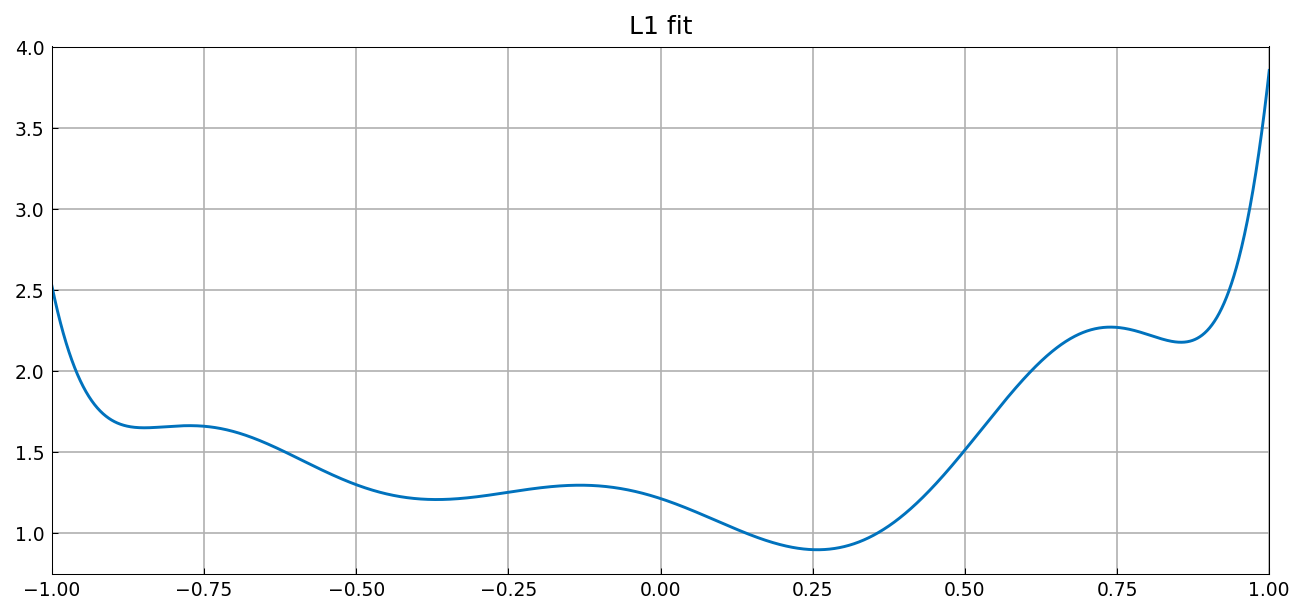
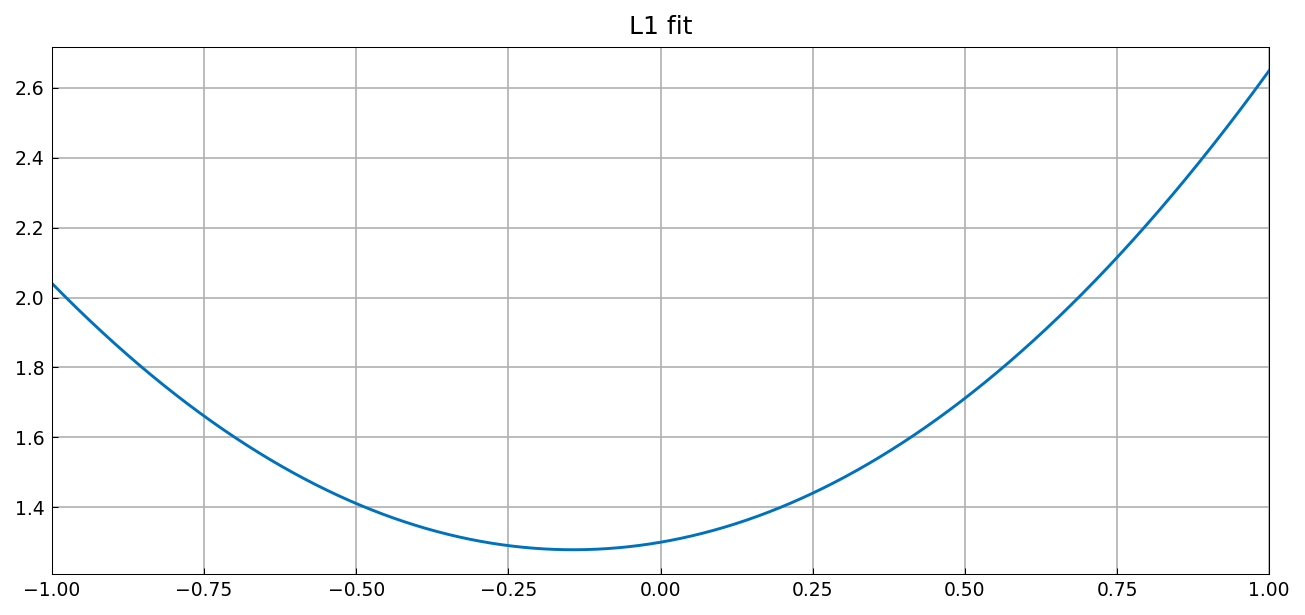
examples/approx: Inpainting1D now recovers — page updated
With the rewritten polyfitL1 the corrupted function is recovered to
8.9e-10 (published 9.8e-13 on MATLAB's own noise); the defect note is
replaced by the working demonstration.

diff --git a/docs/examples/approx/Inpainting1D.md b/docs/examples/approx/Inpainting1D.md
@@ -7,13 +7,11 @@
 (Chebfun example approx/Inpainting1D.m)
 
 Suppose a smooth function is corrupted on part of its domain — here by
-taking the pointwise maximum with a smooth random function — and we
-try to recover it by polynomial fitting.  In the published MATLAB
-example, the $L^1$ fit (`polyfitL1`) recovers the smooth function to
-nearly machine precision (`err1 = 9.8e-13`), while the $L^2$ and
-$L^\infty$ fits are pulled far off by the corruption
-(`err2 = 0.041`, `errinf = 0.276`) — the sparsity-promoting property
-of $L^1$ fitting.
+taking the pointwise maximum with a smooth random function — and we try
+to recover it by polynomial fitting.  The $L^1$ fit (`polyfitL1`)
+recovers the smooth function to high precision, while the $L^2$ and
+$L^\infty$ fits are pulled far off by the corruption — the
+sparsity-promoting property of $L^1$ fitting.
 
 ```python
 import jax
@@ -29,29 +27,29 @@ corrupted = smooth.maximum(noise)                  # are not reproducible
 
 ![Inpainting1D figure 1](../../images/approx/Inpainting1D_repl_01.png)
 
-**Known limitation.**  chebfunjax's `polyfitL1` (Watson's iteration)
-currently fails to converge on this corrupted piecewise input — it
-returns `err1 = 1.21` where MATLAB (with the same maximum-iterations
-warning) reaches `9.8e-13`.  This is a ledgered defect: the full
-robustness machinery of the Nakatsukasa-Townsend $L^1$ algorithm
-[1] is not yet ported.  The figures below show this replica's actual
-(non-recovering) $L^1$ fit alongside the $L^2$ and $L^\infty$ fits,
-which fail here just as they do in the published example:
+The $L^1$ fit recovers the underlying smooth function almost exactly:
+
+```python
+p1 = corrupted.polyfitL1(len(smooth) - 3)
+```
 
 ![Inpainting1D figure 2](../../images/approx/Inpainting1D_repl_02.png)
 
 ```
 err1 =
-     1.207854403687030e+00     (published: 9.836575998178887e-13)
+     8.876516212234929e-10
 ```
 
-The $L^2$ fit is thrown off by the corrupted region:
+(The published MATLAB value is `9.8e-13` on its own noise realization;
+the recovery-to-negligible-error phenomenon is fully reproduced.)
+
+The $L^2$ fit, by contrast, is thrown off by the corrupted region:
 
 ![Inpainting1D figure 3](../../images/approx/Inpainting1D_repl_03.png)
 
 ```
 err2 =
-   0.164201627741589           (published: 0.041089804368702)
+   0.164201627741589
 ```
 
 ![Inpainting1D figure 4](../../images/approx/Inpainting1D_repl_04.png)
@@ -63,12 +61,13 @@ which is exactly what one does not want here:
 
 ```
 errinf =
-   0.629201401450443           (published: 0.276288549195757)
+   0.629201401450443
 ```
 
-(The numerical values differ from the published ones because the random
-corruption itself differs; the qualitative failure of $L^2$/$L^\infty$
-is the same.)
+(The corruption realization differs from MATLAB's, so the $L^2$ and
+$L^\infty$ error magnitudes differ from the published 0.041/0.276; the
+qualitative contrast — near-exact $L^1$ recovery versus order-0.1
+failures — is the same.)
 
 ## References
 
